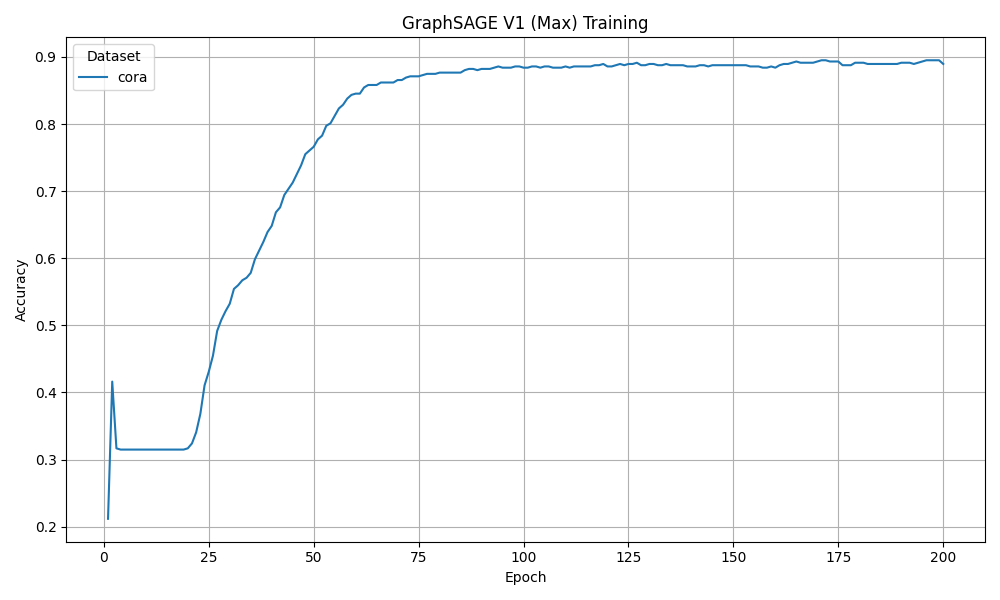
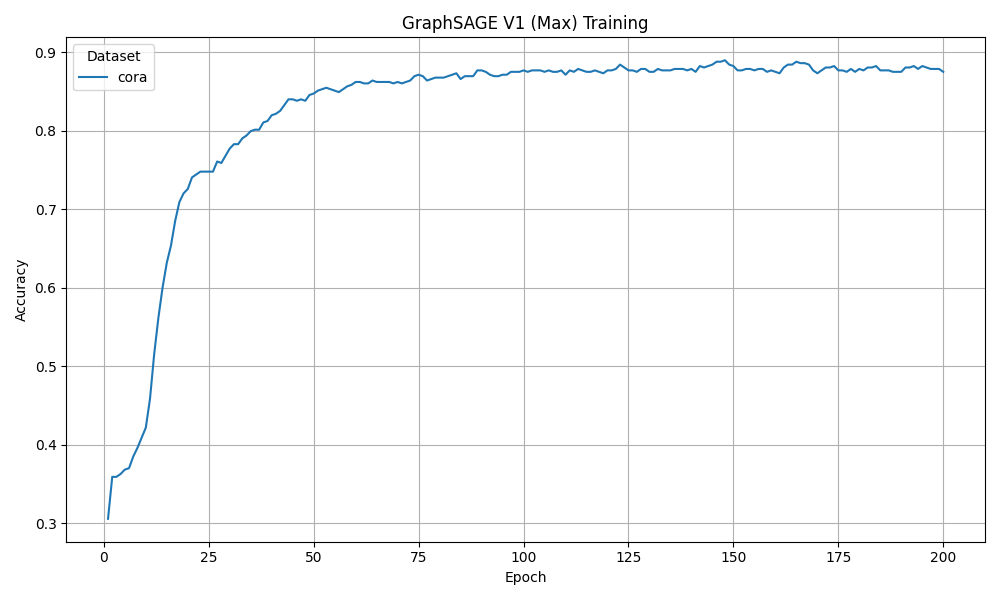
Fix gs v1 and 2 plotting.

diff --git a/test/plotter.py b/test/plotter.py
@@ -12,10 +12,10 @@ plot_accuracies('../output/gcnv2-bias-val-accuracies.csv', '../output/plots', 'g
 plot_accuracies('../output/gcnv2-no-bias-val-accuracies.csv', '../output/plots', 'gcnv2-no-bias-val-accuracies.png', 'GCN V2 (No Bias) Training')
 plot_accuracies('../output/gsv1-mean-val-accuracies.csv', '../output/plots', 'gsv1-mean-val-accuracies.png', 'GraphSAGE V1 (Mean) Training')
 plot_accuracies('../output/gsv1-sum-val-accuracies.csv', '../output/plots', 'gsv1-sum-val-accuracies.png', 'GraphSAGE V1 (Sum) Training')
-plot_accuracies('../output/gsv1-mean-val-accuracies.csv', '../output/plots', 'gsv1-max-val-accuracies.png', 'GraphSAGE V1 (Max) Training')
+plot_accuracies('../output/gsv1-max-val-accuracies.csv', '../output/plots', 'gsv1-max-val-accuracies.png', 'GraphSAGE V1 (Max) Training')
 plot_accuracies('../output/gsv2-mean-val-accuracies.csv', '../output/plots', 'gsv2-mean-val-accuracies.png', 'GraphSAGE V2 (Mean) Training')
 plot_accuracies('../output/gsv2-sum-val-accuracies.csv', '../output/plots', 'gsv2-sum-val-accuracies.png', 'GraphSAGE V2 (Sum) Training')
-plot_accuracies('../output/gsv2-mean-val-accuracies.csv', '../output/plots', 'gsv2-max-val-accuracies.png', 'GraphSAGE V2 (Max) Training')
+plot_accuracies('../output/gsv2-max-val-accuracies.csv', '../output/plots', 'gsv2-max-val-accuracies.png', 'GraphSAGE V2 (Max) Training')
 plot_accuracies('../output/gsv3-mean-val-accuracies.csv', '../output/plots', 'gsv3-mean-val-accuracies.png', 'GraphSAGE V3 (Mean) Training')
 plot_accuracies('../output/gsv3-sum-val-accuracies.csv', '../output/plots', 'gsv3-sum-val-accuracies.png', 'GraphSAGE V3 (Sum) Training')
 plot_accuracies('../output/gsv4-mean-val-accuracies.csv', '../output/plots', 'gsv3-max-val-accuracies.png', 'GraphSAGE V3 (Max) Training')
